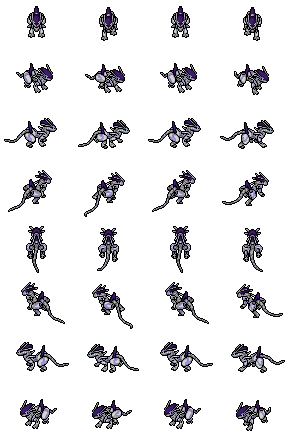
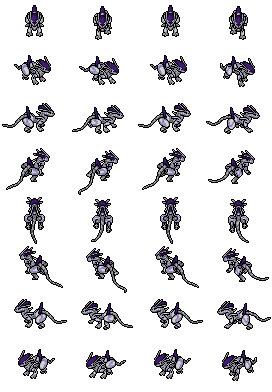
Added Falinks "triangular" formation as default

diff --git a/data/spritesheetmap.js b/data/spritesheetmap.js
@@ -6685,6 +6685,9 @@ export default
       "08XX/086X/0869s_StarSweet.png": {
         "animationframes": 4
       },
+      "08XX/087X/0870.png": {
+        "animationframes": 4
+      },
       "08XX/087X/0870_Brass.png": {
         "animationframes": 4
       },
@@ -7341,7 +7344,7 @@ export default
       "10XX/100X/1008.png": {
         "animationframes": 4
       },
-      "10XX/100X/1008s": {
+      "10XX/100X/1008s.png": {
         "animationframes": 4
       },
       "10XX/100X/1008_Ultimate.png": {
